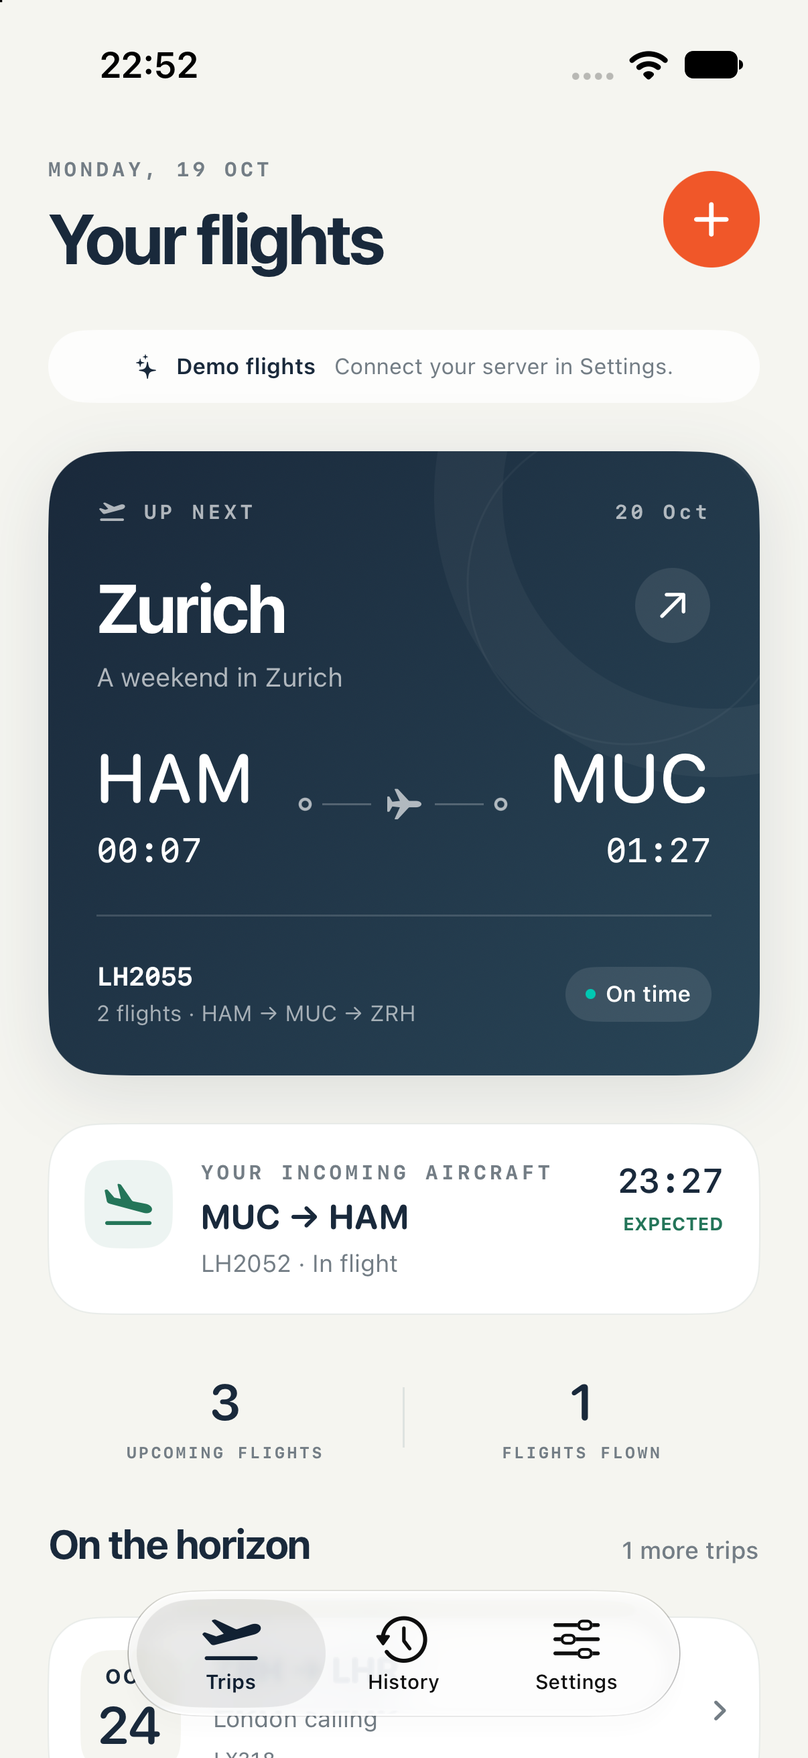
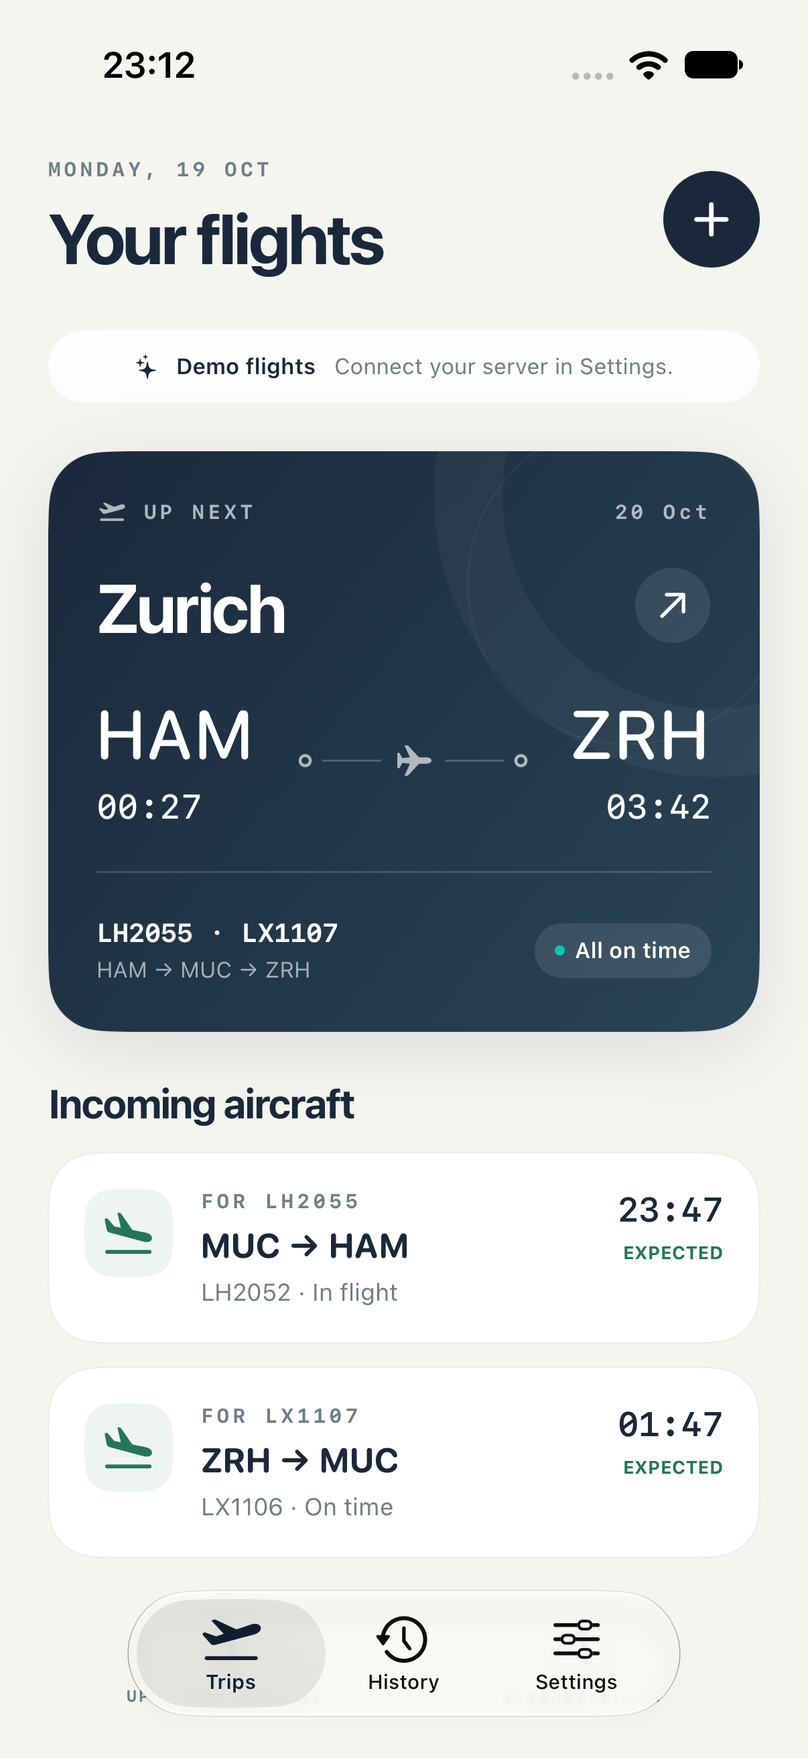
Show the whole journey and incoming aircraft for every leg

diff --git a/app/FlightDeck/FlightCards.swift b/app/FlightDeck/FlightCards.swift
@@ -2,8 +2,8 @@ import SwiftUI
 
 struct JourneyHero: View {
     let trip: Trip
-    var leg: FlightLeg? { trip.nextLeg }
-    var flight: FlightInfo? { leg?.snapshot?.flight }
+    var departure: FlightInfo? { trip.legs.first?.snapshot?.flight }
+    var arrival: FlightInfo? { trip.legs.last?.snapshot?.flight }
     var body: some View {
         VStack(alignment:.leading,spacing:22) {
             HStack {
@@ -12,36 +12,32 @@ struct JourneyHero: View {
                 Text(trip.departure.formatted(.dateTime.month(.abbreviated).day())).eyebrow().foregroundStyle(.white.opacity(0.65))
             }
             HStack(alignment:.top) {
-                VStack(alignment:.leading,spacing:6) {
-                    Text(trip.legs.last?.snapshot?.flight.destination.city.nonempty ?? trip.legs.last?.destinationIata ?? "Your next trip")
-                        .font(.system(size:34,weight:.bold)).tracking(-1.3)
-                    Text(trip.title.nonempty ?? (trip.legs.count > 1 ? "One journey. All your connections.":"Your next flight, at a glance."))
-                        .font(.system(size:13)).foregroundStyle(.white.opacity(0.65))
-                }
+                Text(trip.legs.last?.snapshot?.flight.destination.city.nonempty ?? trip.legs.last?.destinationIata ?? "Your next trip")
+                    .font(.system(size:34,weight:.bold)).tracking(-1.3)
                 Spacer(minLength:4)
                 Image(systemName:"arrow.up.right").font(.system(size:17,weight:.medium)).padding(11)
                     .background(.white.opacity(0.09),in:Circle())
             }
             HStack(spacing:14) {
                 VStack(alignment:.leading,spacing:5) {
-                    Text(leg?.origin ?? "—").font(.system(size:34,weight:.medium,design:.rounded)).tracking(1)
-                    Text(FlightTime.clock(flight?.departure,zone:flight?.origin.timezone)).font(.system(size:17,weight:.medium,design:.monospaced))
+                    Text(trip.legs.first?.origin ?? "—").font(.system(size:34,weight:.medium,design:.rounded)).tracking(1)
+                    Text(FlightTime.clock(departure?.departure,zone:departure?.origin.timezone)).font(.system(size:17,weight:.medium,design:.monospaced))
                 }
                 RouteLine(color:.white.opacity(0.65)).padding(.horizontal,8)
                 VStack(alignment:.trailing,spacing:5) {
-                    Text(leg?.destination ?? "—").font(.system(size:34,weight:.medium,design:.rounded)).tracking(1)
-                    Text(FlightTime.clock(flight?.arrival,zone:flight?.destination.timezone)).font(.system(size:17,weight:.medium,design:.monospaced))
+                    Text(trip.legs.last?.destination ?? "—").font(.system(size:34,weight:.medium,design:.rounded)).tracking(1)
+                    Text(FlightTime.clock(arrival?.arrival,zone:arrival?.destination.timezone)).font(.system(size:17,weight:.medium,design:.monospaced))
                 }
             }
             Rectangle().fill(.white.opacity(0.15)).frame(height:1)
             HStack {
                 VStack(alignment:.leading,spacing:4) {
-                    Text(leg?.flightNumber ?? "").font(.system(size:13,weight:.bold,design:.monospaced))
-                    Text(trip.legs.count>1 ? "\(trip.legs.count) flights · \(trip.route)":"Direct flight")
-                        .font(.system(size:11)).foregroundStyle(.white.opacity(0.6)).lineLimit(1)
+                    Text(trip.legs.map(\.flightNumber).joined(separator:" · ")).font(.system(size:13,weight:.bold,design:.monospaced))
+                    Text(trip.route)
+                        .font(.system(size:11)).foregroundStyle(.white.opacity(0.6))
                 }
                 Spacer()
-                StatusBadge(flight:flight,dark:true)
+                StatusBadge(trip:trip,dark:true).fixedSize()
             }
         }.padding(24).foregroundStyle(.white)
             .background(LinearGradient(colors:[Deck.ink,Color(red:0.16,green:0.27,blue:0.34)],startPoint:.topLeading,endPoint:.bottomTrailing))
@@ -66,7 +62,7 @@ struct IncomingCard: View {
                 .font(.system(size:20,weight:.medium)).foregroundStyle(Deck.green)
                 .frame(width:44,height:44).background(Deck.green.opacity(0.08),in:RoundedRectangle(cornerRadius:14))
             VStack(alignment:.leading,spacing:6) {
-                Text("YOUR INCOMING AIRCRAFT").eyebrow().foregroundStyle(Deck.muted)
+                Text("FOR \(leg.flightNumber)").eyebrow().foregroundStyle(Deck.muted)
                 if let inbound {
                     Text("\(inbound.origin.iata) → \(inbound.destination.iata)")
                         .font(.system(size:17,weight:.bold,design:.rounded)).foregroundStyle(Deck.ink)
@@ -86,7 +82,7 @@ struct IncomingCard: View {
                     Text(inbound.actualArrival != nil ? "ARRIVED":"EXPECTED").font(.system(size:9,weight:.bold)).foregroundStyle(Deck.green)
                 }
             }
-        }.deckCard(padding:18)
+        }.deckCard(padding:18).accessibilityElement(children:.combine)
     }
 }
 

diff --git a/app/FlightDeckUITests/FlightDeckUITests.swift b/app/FlightDeckUITests/FlightDeckUITests.swift
@@ -9,23 +9,37 @@ final class FlightDeckUITests: XCTestCase {
         XCTAssertTrue(field.waitForExistence(timeout:10)); field.tap(); field.typeText(text)
         if app.buttons["Done"].exists { app.buttons["Done"].tap() }
     }
+    func testOverviewDescribesTheWholeTripAndBothIncomingAircraft() {
+        let app = XCUIApplication(); app.launchArguments = ["--uitesting"]; app.launch()
+        let trip = app.buttons["nextTrip"]
+        XCTAssertTrue(trip.waitForExistence(timeout:10))
+        for text in ["LH2055", "LX1107", "HAM → MUC → ZRH", "All on time"] {
+            XCTAssertTrue(trip.label.contains(text), "Missing trip information: \(text)")
+        }
+        XCTAssertFalse(trip.label.contains("A weekend in Zurich"))
+        let first = app.buttons["incoming-LH2055"]
+        let second = app.buttons["incoming-LX1107"]
+        XCTAssertTrue(first.exists)
+        XCTAssertTrue(second.exists)
+        XCTAssertTrue(first.label.contains("MUC → HAM"))
+        XCTAssertTrue(second.label.contains("ZRH → MUC"))
+        capture("Dashboard",app)
+    }
     func testConnectedTripCanBeAddedAndOpened() {
         let app = XCUIApplication()
         app.launchArguments = ["--uitesting"]
         app.launch()
         XCTAssertTrue(app.buttons["addFlight"].waitForExistence(timeout:10))
-        capture("Dashboard",app)
         app.buttons["addFlight"].tap()
-        let title = app.textFields["tripTitle"]
-        fill(title,"Test connection",app)
-        fill(app.textFields["flightNumber0"],"LH2055",app)
+        XCTAssertFalse(app.textFields["tripTitle"].exists)
+        fill(app.textFields["flightNumber0"],"LH2061",app)
         fill(app.textFields["origin0"],"HAM",app)
         fill(app.textFields["destination0"],"MUC",app)
         app.swipeUp()
         app.buttons["addConnection"].tap()
         app.swipeUp()
         let second = app.textFields["flightNumber1"]
-        fill(second,"LX1107",app)
+        fill(second,"LX1111",app)
         fill(app.textFields["destination1"],"ZRH",app)
         capture("Add connected flights",app)
         app.buttons["saveTrip"].tap()
@@ -34,13 +48,13 @@ final class FlightDeckUITests: XCTestCase {
         app.launchArguments = ["--uitesting-preserve"]
         app.launch()
         XCTAssertTrue(app.buttons["addFlight"].waitForExistence(timeout:10))
-        app.swipeUp()
-        let trip = app.staticTexts["Test connection"]
+        let trip = app.buttons.matching(NSPredicate(format:"label CONTAINS %@", "LH2061")).firstMatch
+        for _ in 0..<3 where !trip.isHittable { app.swipeUp() }
         XCTAssertTrue(trip.waitForExistence(timeout:5))
         trip.tap()
-        XCTAssertTrue(app.staticTexts["LH2055"].waitForExistence(timeout:5))
+        XCTAssertTrue(app.staticTexts["LH2061"].waitForExistence(timeout:5))
         app.swipeUp()
-        XCTAssertTrue(app.staticTexts["LX1107"].waitForExistence(timeout:5))
+        XCTAssertTrue(app.staticTexts["LX1111"].waitForExistence(timeout:5))
     }
 
     func testJournalAndDetailAndSettings() {
@@ -51,7 +65,7 @@ final class FlightDeckUITests: XCTestCase {
         app.navigationBars.buttons.firstMatch.tap()
         app.tabBars.buttons["History"].tap()
         XCTAssertTrue(app.staticTexts["Past adventures"].waitForExistence(timeout:5))
-        XCTAssertTrue(app.staticTexts["Back to Johannesburg"].exists)
+        XCTAssertTrue(app.staticTexts["Johannesburg"].exists)
         capture("History",app)
         app.tabBars.buttons["Settings"].tap()
         XCTAssertTrue(app.textFields["serverAddress"].waitForExistence(timeout:5))

diff --git a/app/TripPresentationTests.swift b/app/TripPresentationTests.swift
@@ -1,0 +1,49 @@
+import Foundation
+
+@main
+enum TripPresentationTests {
+    static func expect(_ condition: @autoclosure () -> Bool, _ message: String) {
+        precondition(condition(),message)
+    }
+    static func main() {
+        let baseline = DemoData.trips()[0]
+        expect(baseline.status == JourneyStatus(label:"All on time"),"Both legs must be on time")
+
+        var trip = baseline
+        trip.legs[1].snapshot?.flight.departureDelayMinutes = 25
+        expect(trip.status == JourneyStatus(label:"Flight delayed",warning:true),"A delayed connection must affect the trip")
+
+        trip = baseline
+        trip.legs[1].snapshot?.flight.arrivalDelayMinutes = 12
+        expect(trip.status.warning,"Arrival delays must affect the trip even with an on-time departure")
+
+        trip = baseline
+        trip.legs[1].snapshot?.flight.cancelled = true
+        expect(trip.status == JourneyStatus(label:"Flight cancelled",warning:true),"A cancelled connection must affect the trip")
+
+        trip = baseline
+        trip.legs[1].snapshot?.flight.diverted = true
+        expect(trip.status == JourneyStatus(label:"Flight diverted",warning:true),"A diverted connection must affect the trip")
+
+        trip = baseline
+        trip.legs[1].snapshot = nil
+        expect(trip.status.label == "Awaiting status","One known flight cannot imply the whole trip is on time")
+        trip.legs[0].snapshot?.flight.departureDelayMinutes = 15
+        expect(trip.status.warning,"A known problem must remain visible when another leg has no status")
+
+        trip = baseline
+        trip.legs[0].snapshot?.flight.actualArrival = baseline.legs[0].snapshot?.flight.scheduledArrival
+        expect(trip.status.label == "Connecting","A completed first leg must retain the whole trip context")
+        trip.legs[1].snapshot?.flight.actualDeparture = baseline.legs[1].snapshot?.flight.scheduledDeparture
+        expect(trip.status.label == "In progress","A connection in the air must keep the trip in progress")
+        trip.legs[1].snapshot?.flight.actualArrival = baseline.legs[1].snapshot?.flight.scheduledArrival
+        expect(trip.status.label == "Arrived","Only a fully completed trip is arrived")
+
+        trip = baseline
+        trip.legs = [trip.legs[0]]
+        expect(trip.status.label == "On time","Direct flights must still work")
+        trip.legs = []
+        expect(trip.status.label == "Awaiting status","An empty trip must not imply success")
+        print("Trip presentation checks passed: status considers all legs, missing data, connections and completion.")
+    }
+}

diff --git a/app/FlightDeck/DashboardView.swift b/app/FlightDeck/DashboardView.swift
@@ -15,7 +15,7 @@ struct DashboardView: View {
                         Spacer()
                         Button { adding = true } label: {
                             Image(systemName:"plus").font(.system(size:21,weight:.medium)).foregroundStyle(.white)
-                                .frame(width:48,height:48).background(Deck.orange,in:Circle())
+                                .frame(width:48,height:48).background(Deck.ink,in:Circle())
                         }.accessibilityLabel("Add flight").accessibilityIdentifier("addFlight")
                     }
                     if store.isDemo {
@@ -31,8 +31,12 @@ struct DashboardView: View {
                     }
                     if let next = store.upcoming.first {
                         NavigationLink(value:next.id) { JourneyHero(trip:next) }.buttonStyle(.plain).accessibilityIdentifier("nextTrip")
-                        if let leg = next.nextLeg {
-                            NavigationLink(value:next.id) { IncomingCard(leg:leg) }.buttonStyle(.plain)
+                        VStack(alignment:.leading,spacing:12) {
+                            SectionTitle(title:"Incoming aircraft")
+                            ForEach(next.legs.filter { !$0.isPast }) { leg in
+                                NavigationLink(value:next.id) { IncomingCard(leg:leg) }.buttonStyle(.plain)
+                                    .accessibilityIdentifier("incoming-\(leg.flightNumber)")
+                            }
                         }
                         if let issue = store.issues.first(where:{ issue in next.legs.contains(where:{ $0.id == issue.legId }) }) {
                             Label(issue.message,systemImage:"info.circle").font(.footnote).foregroundStyle(Deck.muted)
@@ -85,7 +89,7 @@ struct HistoryView: View {
                     HStack {
                         Text("Past adventures").font(.system(size:32,weight:.bold)).tracking(-1.2)
                         Spacer()
-                        Button { adding = true } label: { Image(systemName:"plus.circle.fill").font(.title).foregroundStyle(Deck.orange) }
+                        Button { adding = true } label: { Image(systemName:"plus.circle.fill").font(.title).foregroundStyle(Deck.ink) }
                             .accessibilityLabel("Add past flight")
                     }
                     HStack(spacing:12) {

diff --git a/app/FlightDeck/AddTripView.swift b/app/FlightDeck/AddTripView.swift
@@ -3,7 +3,6 @@ import SwiftUI
 struct AddTripView: View {
     @Environment(FlightStore.self) private var store
     @Environment(\.dismiss) private var dismiss
-    @State private var title = ""
     @State private var legs = [NewLeg()]
     @State private var saving = false
     @State private var error: String?
@@ -41,12 +40,6 @@ struct AddTripView: View {
                         Text("Add one flight, or keep every connection together. Past flights are welcome too.")
                             .font(.subheadline).foregroundStyle(Deck.muted).lineSpacing(3)
                     }
-                    VStack(alignment:.leading,spacing:9) {
-                        Text("TRIP NAME · OPTIONAL").eyebrow().foregroundStyle(Deck.muted)
-                        TextField("A weekend in Zurich",text:$title).font(.system(size:17,weight:.medium))
-                            .focused($focusedField,equals:"title")
-                            .accessibilityIdentifier("tripTitle")
-                    }.deckCard()
                     ForEach($legs) { $leg in
                         VStack(alignment:.leading,spacing:18) {
                             HStack {
@@ -101,7 +94,7 @@ struct AddTripView: View {
                     Button {
                         saving = true; error = nil
                         Task {
-                            do { try await store.add(NewTrip(title:title,legs:legs)); dismiss() }
+                            do { try await store.add(NewTrip(title:"",legs:legs)); dismiss() }
                             catch { self.error = error.localizedDescription }
                             saving = false
                         }

diff --git a/app/FlightDeck/Models.swift b/app/FlightDeck/Models.swift
@@ -112,6 +112,28 @@ struct Trip: Codable, Identifiable, Hashable {
         return legs.last?.snapshot?.flight.destination.city.nonempty ?? legs.last?.destinationIata ?? "Upcoming trip"
     }
     var nextLeg: FlightLeg? { legs.first(where: { !$0.isPast }) ?? legs.first }
+    var status: JourneyStatus {
+        if isPast { return JourneyStatus(label:"Arrived") }
+        let remaining = legs.filter { !$0.isPast }
+        let flights = remaining.compactMap { $0.snapshot?.flight }
+        if flights.contains(where: { $0.cancelled }) { return JourneyStatus(label:"Flight cancelled",warning:true) }
+        if flights.contains(where: { $0.diverted }) { return JourneyStatus(label:"Flight diverted",warning:true) }
+        if flights.contains(where: { max($0.departureDelayMinutes,$0.arrivalDelayMinutes) >= 5 }) {
+            return JourneyStatus(label:"Flight delayed",warning:true)
+        }
+        if flights.contains(where: { $0.actualDeparture != nil }) { return JourneyStatus(label:"In progress") }
+        guard !remaining.isEmpty, flights.count == remaining.count else { return JourneyStatus(label:"Awaiting status") }
+        if remaining.count < legs.count { return JourneyStatus(label:"Connecting") }
+        if flights.allSatisfy({ $0.statusLabel == "On time" }) {
+            return JourneyStatus(label:legs.count > 1 ? "All on time":"On time")
+        }
+        return JourneyStatus(label:flights.count == 1 ? flights[0].statusLabel:"Check status")
+    }
+}
+
+struct JourneyStatus: Equatable {
+    var label: String
+    var warning = false
 }
 
 extension String {

diff --git a/app/FlightDeck/DemoData.swift b/app/FlightDeck/DemoData.swift
@@ -31,11 +31,13 @@ enum DemoData {
         let first = leg(flight("LH2055","HAM","MUC",start,80),inbound:inbound)
         var secondInfo = flight("LX1107","MUC","ZRH",start.addingTimeInterval(140*60),55)
         secondInfo.registration = "HB-JDB"; secondInfo.departureGate = "G28"; secondInfo.operator = "LX"
-        let second = leg(secondInfo)
+        var secondInbound = flight("LX1106","ZRH","MUC",start.addingTimeInterval(25*60),55)
+        secondInbound.registration = "HB-JDB"; secondInbound.operator = "LX"
+        let second = leg(secondInfo,inbound:secondInbound)
         let next = leg(flight("LX318","ZRH","LHR",day.addingTimeInterval(5*86400+11*3600),105))
         let past = leg(flight("FA104","CPT","JNB",day.addingTimeInterval(-8*86400+9*3600),125,past:true))
-        return [Trip(id:UUID().uuidString,title:"A weekend in Zurich",createdAt:FlightTime.iso(now),legs:[first,second]),
-                Trip(id:UUID().uuidString,title:"London calling",createdAt:FlightTime.iso(now),legs:[next]),
-                Trip(id:UUID().uuidString,title:"Back to Johannesburg",createdAt:FlightTime.iso(now),legs:[past])]
+        return [Trip(id:UUID().uuidString,title:"",createdAt:FlightTime.iso(now),legs:[first,second]),
+                Trip(id:UUID().uuidString,title:"",createdAt:FlightTime.iso(now),legs:[next]),
+                Trip(id:UUID().uuidString,title:"",createdAt:FlightTime.iso(now),legs:[past])]
     }
 }

diff --git a/app/FlightDeck/Design.swift b/app/FlightDeck/Design.swift
@@ -31,13 +31,23 @@ struct RouteLine: View {
 }
 
 struct StatusBadge: View {
-    let flight: FlightInfo?
-    var dark = false
-    private var warning: Bool { flight?.cancelled == true || flight?.diverted == true || (flight?.departureDelayMinutes ?? 0) >= 5 }
+    let label: String
+    let warning: Bool
+    let dark: Bool
+    init(flight: FlightInfo?, dark: Bool = false) {
+        label = flight?.statusLabel ?? "Awaiting status"
+        warning = flight?.cancelled == true || flight?.diverted == true || (flight?.departureDelayMinutes ?? 0) >= 5
+        self.dark = dark
+    }
+    init(trip: Trip, dark: Bool = false) {
+        label = trip.status.label
+        warning = trip.status.warning
+        self.dark = dark
+    }
     var body: some View {
         HStack(spacing:5) {
             Circle().fill(warning ? Deck.orange : (dark ? Color.mint:Deck.green)).frame(width:5,height:5)
-            Text(flight?.statusLabel ?? "Awaiting status").font(.system(size:11,weight:.semibold))
+            Text(label).font(.system(size:11,weight:.semibold))
         }.foregroundStyle(dark ? .white : warning ? Deck.orange:Deck.green)
             .padding(.horizontal,10).padding(.vertical,7)
             .background(dark ? Color.white.opacity(0.10) : (warning ? Deck.orange:Deck.green).opacity(0.08),in:Capsule())

diff --git a/app/FlightDeck/TripDetailView.swift b/app/FlightDeck/TripDetailView.swift
@@ -21,7 +21,12 @@ struct TripDetailView: View {
                                 Text(leg.departureDay.formatted(.dateTime.day().month(.abbreviated))).font(.system(size:12)).foregroundStyle(Deck.muted)
                             }
                             LegDetailCard(leg:leg)
-                            if !leg.isPast { IncomingCard(leg:leg) }
+                            if !leg.isPast {
+                                VStack(alignment:.leading,spacing:10) {
+                                    Text("INCOMING AIRCRAFT").eyebrow().foregroundStyle(Deck.muted)
+                                    IncomingCard(leg:leg)
+                                }
+                            }
                             if let f = leg.snapshot?.flight {
                                 HStack(spacing:14) {
                                     Image(systemName:"airplane").font(.system(size:28,weight:.light)).foregroundStyle(Deck.orange)

diff --git a/VALIDATION.md b/VALIDATION.md
@@ -4,9 +4,10 @@ Checked on 19 October 2026.
 
 - **Python:** 16 tests passed. Covers concurrent spending reservations, account-wide high-water accounting, decimal rounding, restart persistence, month boundaries, expired prices, usage-report failures, timeouts without refunds, pagination blocking, caching, rate limits, authenticated API operations, connected-trip validation, local departure-date matching, provider retention and aircraft reassignment. Cached provider timestamps are preserved instead of making older data appear fresh.
 - **Native build:** Xcode simulator build succeeded, with an iOS 17 deployment target and no third-party app packages.
-- **Native UI:** Connected flights can be entered and opened; journal, aircraft details and Settings checks pass. A separate successful run terminates/reopens the app and verifies the added connected trip remains available.
+- **Native UI:** Three tests passed. The overview shows the whole route, both flight numbers and two separate incoming-aircraft cards. Connected flights can be entered without a trip name, saved and reopened after terminating the app; journal, aircraft details and Settings checks pass.
+- **Trip status:** Native Swift checks passed for delayed, cancelled and diverted connections, arrival delays, missing data, connecting/in-progress/completed trips, direct flights and empty trips. One on-time leg cannot imply every leg is on time.
 - **Client/server integration:** The actual Swift API client and Codable models passed an HTTP smoke test against the Python demo server: authentication, adding linked legs, decoding flight details, refresh, usage display and deletion.
-- **Visual review:** Native simulator overview and Settings inspected. Screenshots are in `previews/`.
+- **Visual review:** Updated simulator overview and connected-flight form inspected, including the navy add button, trip-wide departure/final arrival, both incoming-aircraft cards and removal of the trip-name field. Screenshots are in `previews/`.
 
 No real FlightAware key was supplied. Live provider requests were exercised with deterministic HTTP mocks; no paid calls were made. The Windows service installer is prepared but has not been run on the user's Windows server. Physical-device signing, server HTTPS/certificate setup and push notifications have not been performed.
 

diff --git a/README.md b/README.md
@@ -8,6 +8,7 @@ A personal flight companion: your upcoming flight, the incoming aircraft and eve
 
 - A saved flight journal, including manually entered past flights.
 - Single flights and trips with up to eight connected legs; each leg has its own departure date.
+- A whole-trip overview with first departure, final arrival, all flight numbers and a combined status; a separate incoming-aircraft card for each remaining leg. Trips are identified automatically, with no name to enter.
 - Upcoming trips sorted by date, with flight status, gates, local times, aircraft registration/type and the incoming flight when identified by FlightAware.
 - Automatic refresh on opening/foregrounding and while the app is visible when data is over 15 minutes old. Pull-to-refresh requests an immediate update, subject to a 60-second safety cache and spending limits.
 - Offline device cache, separate demo and server data, connection-token storage in Keychain.
@@ -95,6 +96,14 @@ xcodebuild -project app/FlightDeck.xcodeproj -scheme FlightDeck \
 ```
 
 The checked-in project has no third-party iOS dependencies. After adding Swift files, regenerate the deterministic project with `python app/generate_project.py` (preserves no manual project-file edits).
+
+Check trip status aggregation on macOS (including a delayed/cancelled second leg and missing status):
+
+```sh
+swiftc app/FlightDeck/Models.swift app/FlightDeck/DemoData.swift \
+  app/TripPresentationTests.swift -o /tmp/flightdeck-trip-tests
+/tmp/flightdeck-trip-tests
+```
 
 The native API smoke test uses the actual app network client and Codable models against a disposable local demo server. Start `python tests/serve_fixture.py` from `server/`, then from the repository root compile and run:
 
